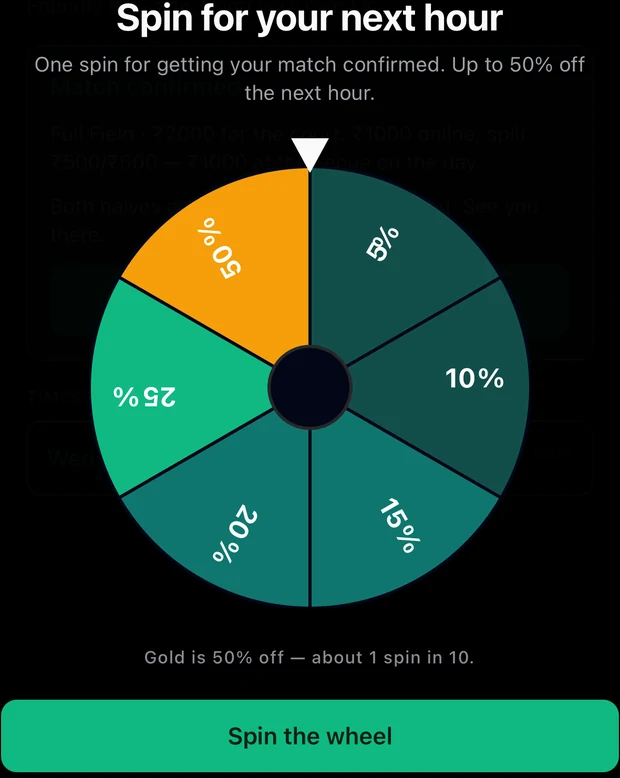
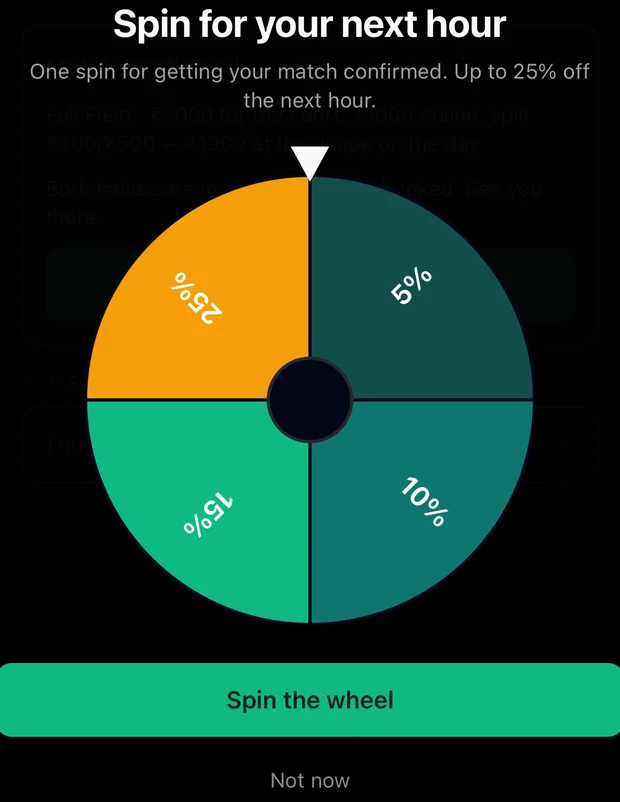
fix(challenges): the spinner can only promise the prize the wheel holds
The heading above the wheel said "Up to 50% off the next hour" from a
string literal. When the venue dropped its top prize to 25% to hold the
₹1,800-an-hour floor, that sentence stayed — a promise the wheel could not
keep, on the one screen where a player is counting. It now reads the
ceiling off the segments, so it cannot drift again.

Also on that screen:

- The odds caption ("Gold is 25% off — about 1 spin in 20") is gone at the
  venue's request. The player sees the prizes; the odds are the admin's
  business and are written out in the guide's live preview.
- The slice label was `{s.pct}%` — two JSX children, which react-native-svg
  lays out as two anchored runs and centres SEPARATELY, pulling the "%"
  back over the number by half its own width. On "10%" the shift stayed
  inside the digits; on the single-digit "5%" the percent sign sat on top
  of the 5. One template string fixes every label.

DEFAULT_WHEEL follows production down to 5/45 · 10/40 · 15/10 · 25/5
(average 9.00%). A fallback wheel has to satisfy the same guard as anything
typed by hand: at 17.75% under the new 5–10 band, clearing the segments
would have wedged the settings page against its own contents.

Deep links: `momentumarena://challenges` and a tapped
momentumarena.com/challenges both fell through to the web, and a push
carrying a bare `/challenges` landed on the notifications list — so the one
push most likely to be sent to everybody reached the wrong screen. Board
[…]

diff --git a/app/(admin)/admin/challenges/challenges-guide.tsx b/app/(admin)/admin/challenges/challenges-guide.tsx
@@ -35,13 +35,14 @@ import {
 
 type Seg = { pct: number; weight: number };
 
+// Mirrors DEFAULT_WHEEL in lib/challenge-rules.ts — the wheel a venue gets
+// before saving one of their own. It averages 9%, which is the arena's rule:
+// a discounted hour still brings in ₹1,800 of a ₹2,000 court.
 const BUILT_IN_WHEEL: Seg[] = [
-  { pct: 5, weight: 10 },
-  { pct: 10, weight: 30 },
-  { pct: 15, weight: 25 },
-  { pct: 20, weight: 15 },
-  { pct: 25, weight: 10 },
-  { pct: 50, weight: 10 },
+  { pct: 5, weight: 45 },
+  { pct: 10, weight: 40 },
+  { pct: 15, weight: 10 },
+  { pct: 25, weight: 5 },
 ];
 
 /* ── building blocks ───────────────────────────────────────────────── */
@@ -413,8 +414,8 @@ export function ChallengesGuide({
             src="/help/challenges/wheel.webp"
             alt="The prize wheel as a customer sees it"
             w={620}
-            h={778}
-            caption="The wheel itself. Six equal slices whatever the odds — and the line underneath states the real chance in words, which is how the picture stays even without misleading anybody."
+            h={802}
+            caption="The wheel itself. Equal slices whatever the odds, so a rare prize never looks unwinnable. The heading is read off the wheel, so it can only ever promise the top prize you actually set."
             by="Segments and weights — see section 5"
           />
         </div>
@@ -601,7 +602,7 @@ export function ChallengesGuide({
             src="/help/challenges/wheel.webp"
             alt="The prize wheel in the app, with equal slices"
             w={620}
-            h={778}
+            h={802}
             caption="The built-in wheel as a player sees it."
           />
           <div className="rounded-lg border border-zinc-800 bg-zinc-950 p-4">
@@ -613,13 +614,11 @@ export function ChallengesGuide({
               so the picture is even while the odds stay exactly your weights.
             </p>
             <p className="mt-2 text-sm text-zinc-400">
-              Nothing is hidden. Look at the line under the wheel in that screenshot:{" "}
-              <span className="text-white">
-                &ldquo;Gold is 50% off — about 1 spin in 10.&rdquo;
-              </span>{" "}
-              That sentence is generated from your weights, so it always tells the truth
-              even though the slices are even. On the built-in wheel the 50% segment has a
-              weight of 10 out of 100, which is exactly 1 in 10.
+              The player is shown the prizes, not the odds. The picture being even is
+              therefore not a claim about chances — the real chances are your weights, and
+              the only place they are written out is the{" "}
+              <span className="text-white">Your wheel, right now</span> panel above, which
+              is read from the same saved segments the app spins against.
             </p>
             <p className="mt-2 text-sm text-zinc-400">
               A segment with weight 0 is not drawn at all — it cannot be landed on, so
@@ -641,9 +640,9 @@ export function ChallengesGuide({
             name="Segments and weights"
             what="The prize list itself. Add a row per prize."
             examples={[
-              ["50% / 1", "A jackpot that lands about 1 spin in 20 on the table above."],
-              ["10% / 30", "The common result — most people get this."],
-              ["25% / 0", "Listed but switched off: never drawn, never shown."],
+              ["25% / 5", "The top prize on the shipped wheel — ₹500 off, about 1 spin in 20."],
+              ["10% / 40", "The common result — most people get this or the 5%."],
+              ["50% / 0", "Listed but switched off: never drawn, never shown."],
             ]}
             careful="At least one segment needs a weight above zero, or there is nothing to win and the built-in wheel is used instead."
           />
@@ -651,10 +650,10 @@ export function ChallengesGuide({
             name="Average floor % and ceiling %"
             what="A safety rail, not a prize. The system works out what your wheel gives away on average and refuses to save it if that average falls outside this band."
             examples={[
-              ["15 – 25", "A wheel averaging 14.5% is rejected until you raise the prizes or lower the floor."],
+              ["5 – 10", "What the arena runs. A wheel averaging 10.2% is rejected — that is the ₹1,800-an-hour rule, enforced."],
               ["0 – 100", "Effectively no rail — any wheel saves."],
             ]}
-            careful="This is about the AVERAGE, not any single prize. A 50% jackpot is fine inside a 15–25 band as long as it is rare enough."
+            careful="This is about the AVERAGE, not any single prize — a 25% prize is fine inside a 5–10 band as long as it is rare enough. It is also the setting that enforces the money rule: at 5–10, a ₹2,000 hour is guaranteed to bring in at least ₹1,800 on average."
           />
           <Field
             name="Next-hour offer lasts (minutes)"

diff --git a/apps/mobile/src/screens/challenges/SpinWheel.tsx b/apps/mobile/src/screens/challenges/SpinWheel.tsx
@@ -116,27 +116,6 @@ export function SpinWheel({
   }, [segments]);
 
   const maxPct = useMemo(() => Math.max(...slices.map((s) => s.pct), 0), [slices]);
-  // The odds, in words. The server computes these for the admin and the
-  // player was never shown a number.
-  const jackpotOdds = useMemo(() => {
-    const total = slices.reduce((t, x) => t + x.weight, 0) || 1;
-    // EVERY slice showing the top number, not the first one found. Nothing
-    // stops the venue putting 50% on the wheel twice — two slices, weight 1
-    // each — and taking only the first understated the real chance by half:
-    // the caption read "about 1 spin in 12" for something that came up 1 in 6,
-    // measured over 400,000 draws. This sentence is the only place a player is
-    // told their odds, and the wheel's whole premise is that they will
-    // eventually check.
-    const chance = slices
-      .filter((x) => x.pct === maxPct)
-      .reduce((t, x) => t + x.weight, 0) / total;
-    // Phrased as a whole sentence, because "about never spins" is what
-    // stitching a fragment into the caption produced when a wheel had the
-    // top prize weighted to zero.
-    return chance > 0
-      ? `about 1 spin in ${Math.round(1 / chance)}`
-      : "not on this wheel right now";
-  }, [slices, maxPct]);
 
   useEffect(() => {
     if (landOn === null) return;
@@ -200,7 +179,11 @@ export function SpinWheel({
             {settled && subtitle
               ? subtitle
               : landOn === null
-                ? "One spin for getting your match confirmed. Up to 50% off the next hour."
+                ? // The ceiling is READ OFF THE WHEEL, never written down here.
+                  // It was hardcoded at 50% and stayed there when the venue
+                  // dropped its top prize to 25% — a promise the wheel could
+                  // not keep, on the one screen where a player is counting.
+                  `One spin for getting your match confirmed.${maxPct > 0 ? ` Up to ${maxPct}% off the next hour.` : ""}`
                 : " "}
           </Text>
         </View>
@@ -279,7 +262,15 @@ export function SpinWheel({
                           // that can be true at every angle.
                           transform={`rotate(${s.mid - 90} ${lx} ${ly})`}
                         >
-                          {s.pct}%
+                          {/* ONE string child, not `{s.pct}%`. Written as two
+                              children, react-native-svg lays them out as two
+                              anchored runs and applies textAnchor="middle" to
+                              each — so the "%" was pulled back over the number
+                              by half its own width. On "10%" that shift stayed
+                              inside the digits and looked fine; on the
+                              single-digit "5%" the percent sign sat on top of
+                              the 5. */}
+                          {`${s.pct}%`}
                         </SvgText>
                       )}
                     </G>
@@ -290,15 +281,6 @@ export function SpinWheel({
             </Svg>
           </Animated.View>
         </View>
-
-        {/* The slices are equal, so the chance has to be said in words. The
-            previous copy ("exactly as narrow as it looks") described a
-            proportional wheel and would now be simply false. */}
-        {maxPct > 0 && (
-          <Text variant="tiny" color={colors.zinc500} style={{ textAlign: "center" }}>
-            {`Gold is ${maxPct}% off — ${jackpotOdds}.`}
-          </Text>
-        )}
 
         <View style={{ width: "100%", gap: 10 }}>
           {landOn === null ? (

diff --git a/tests/challenge-rules.test.ts b/tests/challenge-rules.test.ts
@@ -345,12 +345,19 @@ test("the first half part-pays, the second confirms", () => {
 
 // ── The wheel ──────────────────────────────────────────────────────
 
-test("the shipped default wheel sits inside the venue's band", () => {
+test("the shipped default wheel obeys the venue's ₹1,800 rule", () => {
+  // The default is a fallback, so it has to pass the same guard as a wheel
+  // typed by hand — otherwise clearing the segments leaves a wheel the
+  // settings page refuses to save.
   const avg = wheelAveragePct(DEFAULT_WHEEL);
-  assert.ok(avg >= 15 && avg <= 25, `default wheel averages ${avg}%, outside 15–25%`);
-  // The stated intent: roughly one spin in ten shows 50%.
-  const jackpot = wheelOdds(DEFAULT_WHEEL).find((o) => o.pct === 50);
-  assert.ok(jackpot && Math.abs(jackpot.chance - 0.1) < 0.02, "50% should land near 1 in 10");
+  assert.ok(avg <= 10, `default wheel averages ${avg}%, above the 10% ceiling`);
+  assert.equal(wheelRefusal(DEFAULT_WHEEL, 5, 10), null);
+  // On a ₹2,000 court that is what the rule is actually about.
+  assert.ok(Math.round((2000 * (100 - avg)) / 100) >= 1800);
+  // The top prize is 25% — still a real win at ₹500 off, without the
+  // variance a 50% segment puts on any single customer's run of spins.
+  const top = Math.max(...wheelOdds(DEFAULT_WHEEL).map((o) => o.pct));
+  assert.equal(top, 25);
 });
 
 test("the average is the weighted mean, not the midpoint", () => {
@@ -366,7 +373,12 @@ test("a wheel outside the band is refused, and says which way", () => {
   assert.match(wheelRefusal(generous, 15, 25) ?? "", /above your 25% ceiling/);
   const stingy = [{ pct: 2, weight: 1 }];
   assert.match(wheelRefusal(stingy, 15, 25) ?? "", /below your 15% floor/);
-  assert.equal(wheelRefusal(DEFAULT_WHEEL, 15, 25), null);
+  // A wheel INSIDE whatever band it is judged against passes. Using the
+  // shipped default here tied this test to whatever the default happened to
+  // average, which is a different question — it is now checked against its
+  // own band in the test above.
+  assert.equal(wheelRefusal([{ pct: 20, weight: 1 }], 15, 25), null);
+  assert.equal(wheelRefusal(DEFAULT_WHEEL, 5, 10), null);
   assert.match(wheelRefusal([], 15, 25) ?? "", /at least one segment/i);
   assert.match(wheelRefusal([{ pct: 20, weight: 0 }], 15, 25) ?? "", /weight above zero/);
   assert.match(wheelRefusal([{ pct: 120, weight: 1 }], 15, 25) ?? "", /between 0% and 100%/);

diff --git a/lib/challenge-rules.ts b/lib/challenge-rules.ts
@@ -465,20 +465,23 @@ export function statusAfterPayment(paidSidesIncludingThis: ChallengeSide[]): Cha
 export type WheelSegment = { pct: number; weight: number };
 
 /**
- * The wheel the venue runs if it has not configured one.
+ * The wheel used when the venue has saved none of their own — and the one
+ * `resolveWheel` falls back to when every weight is zero.
  *
- * Tuned to the stated intent: a poster who spins ten times sees 50% about
- * once, and the average lands near 18% — inside the 15–25% band. The
- * jackpot alone is five points of that average, which is why everything
- * else sits low. Change it in the admin, not here.
+ * It averages 9%, because the arena's rule is that a discounted hour must
+ * still bring in ₹1,800 of a ₹2,000 court. The previous default averaged
+ * 17.75% (₹1,645 an hour), which after the band moved to 5–10% would have
+ * been a fallback that violates the rule AND that `wheelRefusal` refuses to
+ * save — so clearing the segments would have wedged the settings page.
+ * A default has to satisfy the same guard as anything typed by hand.
+ *
+ * Change it in the admin, not here.
  */
 export const DEFAULT_WHEEL: WheelSegment[] = [
-  { pct: 5, weight: 10 },
-  { pct: 10, weight: 30 },
-  { pct: 15, weight: 25 },
-  { pct: 20, weight: 15 },
-  { pct: 25, weight: 10 },
-  { pct: 50, weight: 10 },
+  { pct: 5, weight: 45 },
+  { pct: 10, weight: 40 },
+  { pct: 15, weight: 10 },
+  { pct: 25, weight: 5 },
 ];
 
 /** Total weight, or 0 for a wheel that cannot be spun. */

diff --git a/apps/mobile/src/navigation/RootNavigator.tsx b/apps/mobile/src/navigation/RootNavigator.tsx
@@ -205,6 +205,20 @@ export function RootNavigator() {
             });
             break;
           }
+          // The BOARD, for an announcement or any push that is about the
+          // feature rather than one match. Without this a `/challenges`
+          // link fell through to the notifications list — so the one push
+          // most likely to be sent to everybody landed on the wrong screen.
+          if (/^\/challenges\/?$/.test(link)) {
+            navigationRef.navigate("Main", {
+              screen: "Account",
+              params: {
+                screen: "ChallengeBoard",
+                initial: false,
+              },
+            });
+            break;
+          }
           const booking = link.match(/^\/bookings\/([\w-]+)$/);
           if (booking) {
             navigationRef.navigate("Main", {

diff --git a/apps/mobile/src/navigation/linking.ts b/apps/mobile/src/navigation/linking.ts
@@ -72,6 +72,14 @@ export const linking: LinkingOptions<RootStackParamList> = {
               BookingsList: "bookings",
               BookingDetail: "bookings/:bookingId",
               Notifications: "notifications",
+              // The challenges board and one match. Absent until now, which
+              // meant `momentumarena://challenges` and a tapped
+              // momentumarena.com/challenges link both fell through to the
+              // web — while pushes reached the screens fine, because the
+              // push handler routes them itself. Two paths to the same
+              // screen that disagreed.
+              ChallengeBoard: "challenges",
+              ChallengeDetail: "challenges/:id",
               Coupons: "coupons",
               Rewards: "rewards",
               MatchScore: "match/:code",

diff --git a/docs/PROJECT-CONTEXT.md b/docs/PROJECT-CONTEXT.md
@@ -9,7 +9,7 @@ touching anything. It carries the rules, the deployment model, and the non-obvio
 that are expensive to rediscover. Then verify before acting — anything naming a file, flag,
 or function was true when written, so confirm it still exists before relying on it.
 
-**Last substantive update:** 2026-09-20 · accurate as of `main` = `218d8c62` (app 1.0.7). Challenges: the court is bought only when BOTH halves are in; court-hour locks are keyed per zone and taken through one function (gotcha 15); availability must stay on the caller's client (16).
+**Last substantive update:** 2026-09-21 · accurate as of `main` = `218d8c62` (app 1.0.7). Challenges: the prize wheel now averages 9% to hold the venue's ₹1,800-an-hour floor, and nothing hardcodes the top prize (§9, prize wheel).
 
 **New here?** Read `docs/HANDOVER.md` first — it is the entry point for a
 session inheriting this project with no conversation history, and points at
@@ -1009,8 +1009,25 @@ behaviour the system no longer has is worse than no field.
 
 **The prize wheel** (`lib/challenge-spin.ts`, `lib/challenge-push.ts`).
 A confirmed challenge earns its POSTER one spin for a discount on an extra
-hour, headlined "up to 50%" and weighted so the average lands in the
-venue's band. Four things about it are load-bearing:
+hour, weighted so the average lands in the venue's band. Five things about
+it are load-bearing:
+
+- **The wheel is the venue's ₹1,800-an-hour floor, expressed as a
+  distribution.** The rule is stated per CUSTOMER, not per spin: ten spins
+  against ₹2,000 hours must still return ₹18,000. That makes the average
+  discount the whole quantity of interest, and it must be ≤10%. Production
+  and `DEFAULT_WHEEL` both run 5/45 · 10/40 · 15/10 · 25/5 — average 9.00%,
+  band 5–10, capped at 6 spins per poster per 30 days. The earlier wheel
+  averaged 17.75% (₹1,645 an hour) with a 50% jackpot. Change the wheel and
+  the band TOGETHER: `wheelRefusal` checks the saved wheel against the saved
+  band on every admin save, so a 9% wheel under a 15–25 band wedges the
+  settings page against its own contents. `scripts/set-challenge-wheel.ts`
+  (dispatch `challenges-wheel.yml`) runs that validator before writing, and
+  reports in rupees.
+- **Nothing hardcodes the top prize.** The spinner heading reads it off the
+  wheel. It used to say "Up to 50%" in a string literal and kept saying so
+  after the jackpot dropped to 25% — a promise the wheel could not keep, on
+  the one screen where a player is counting.
 
 - **Average, floor and ceiling cannot all be inputs.** They are not
   independent — floor 15 / ceiling 50 / average 25 may have no distribution
@@ -1018,8 +1035,8 @@ venue's band. Four things about it are load-bearing:
   derived, shown live, and a save outside the band is refused. Do not
   "simplify" this into three number boxes.
 - **The draw is honestly weighted and written before the device hears it.**
-  50% rarely stops because it rarely WINS, not because an animation is
-  steered off a result it already landed on — and the row exists before the
+  The top prize rarely stops because it rarely WINS, not because an
+  animation is steered off a result it already landed on — and the row exists before the
   spin animates, so killing the app mid-spin cannot re-roll.
 - **Two offers on two clocks.** ADJACENT is the hour after the match, held
   unsold while the captain asks his side, so its window is minutes.
